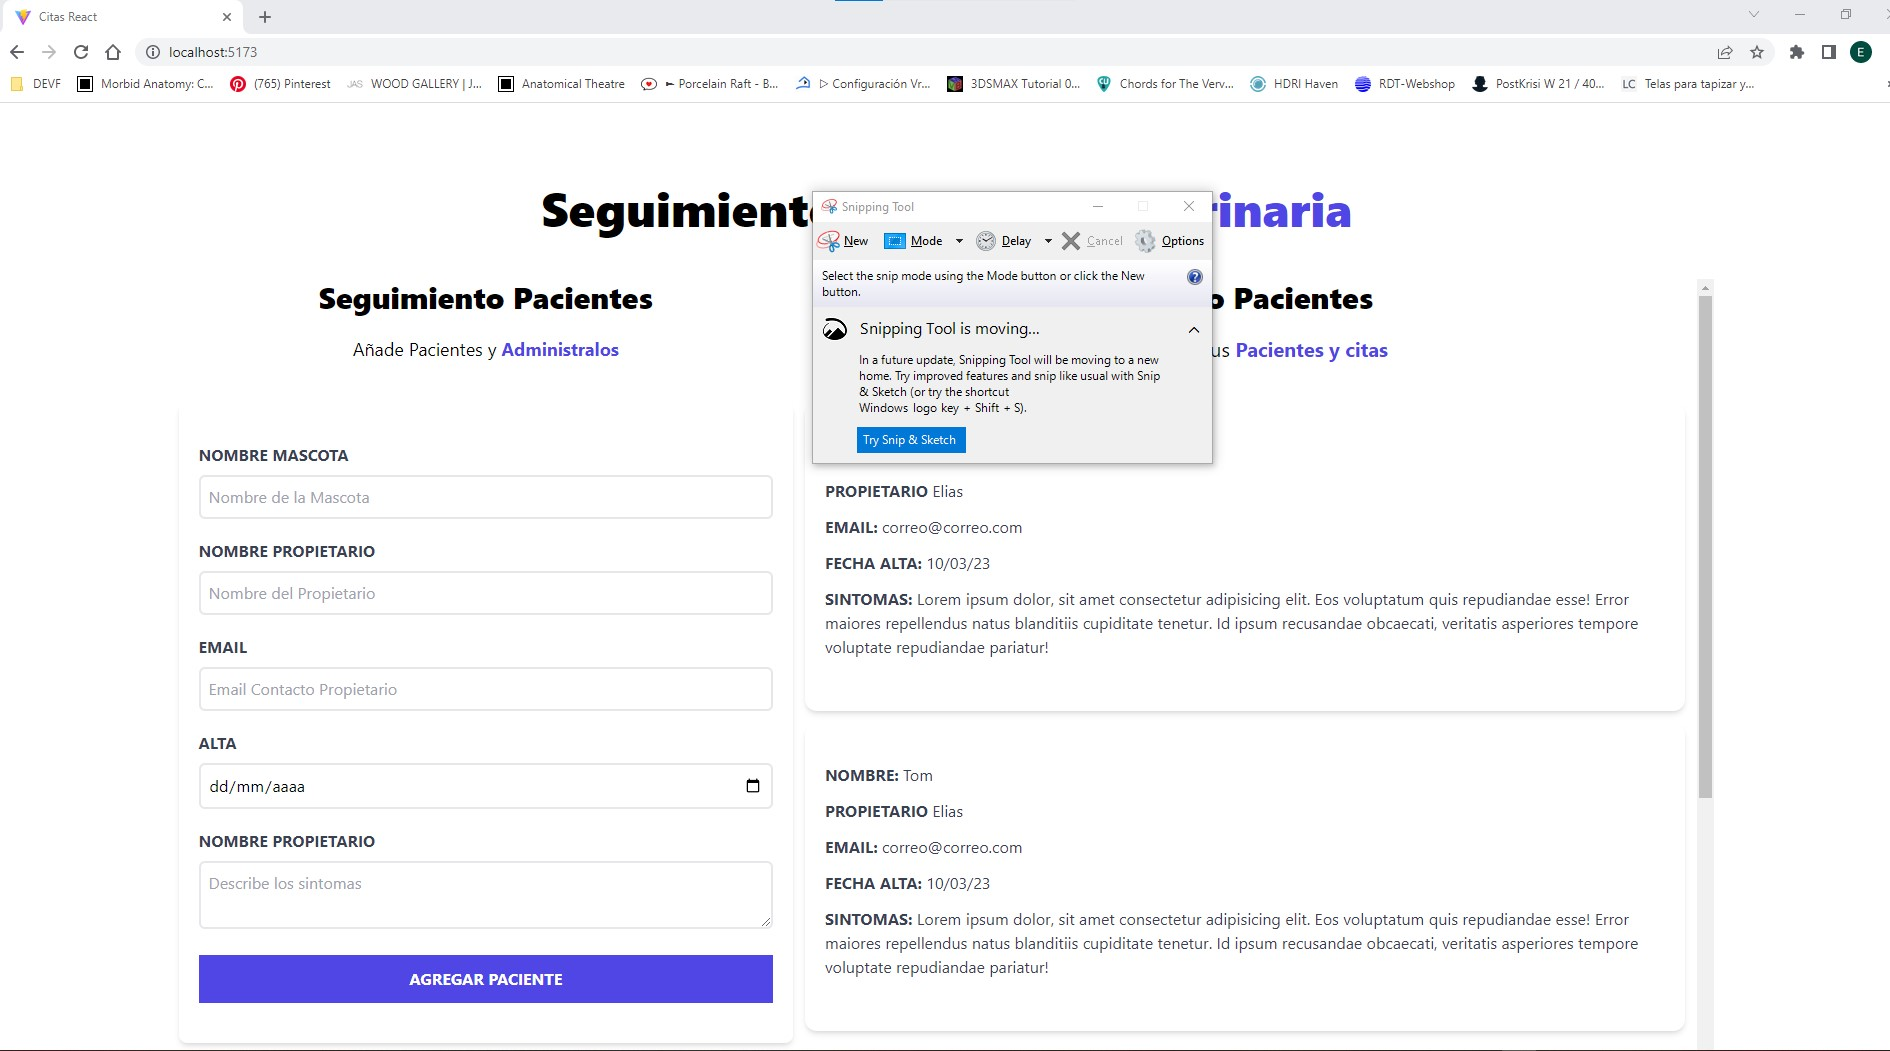
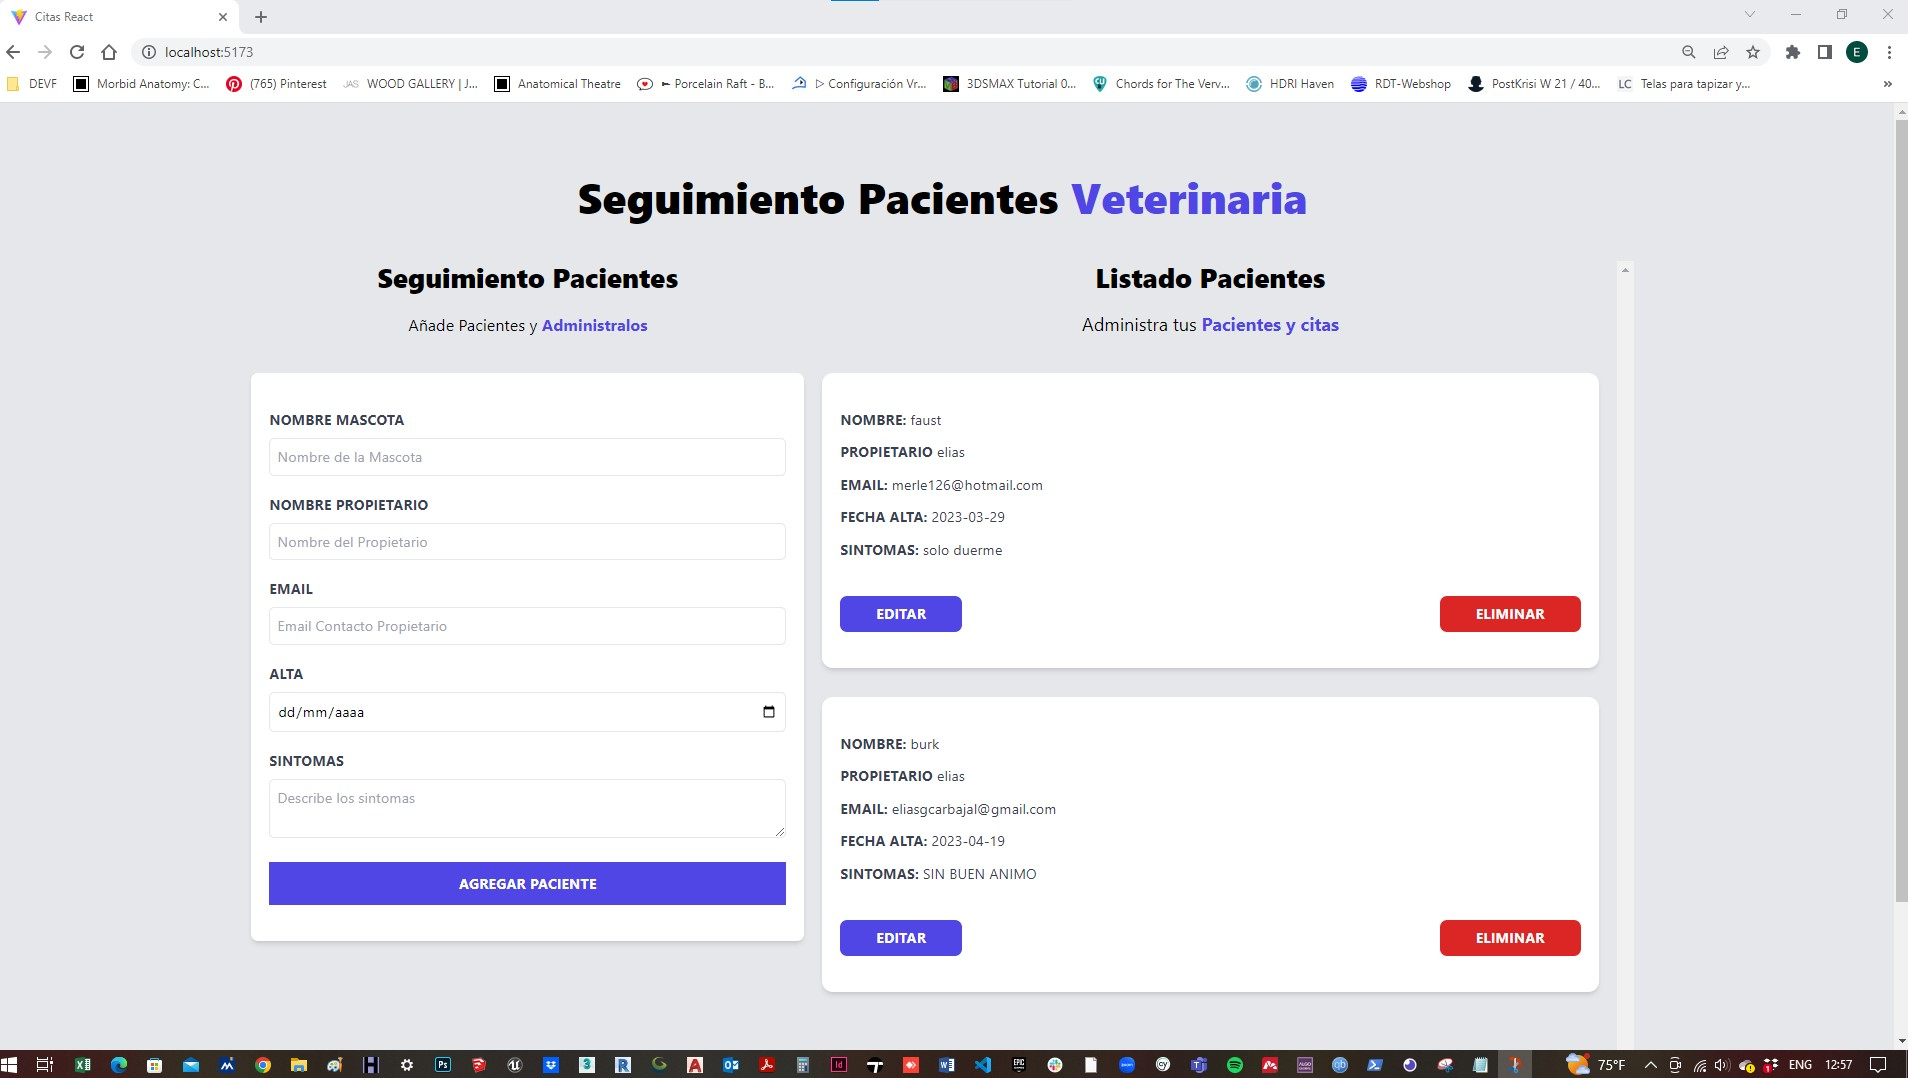
nuevos hooks con useEffect y local Storage, y deployment

diff --git a/src/App.jsx b/src/App.jsx
@@ -1,11 +1,24 @@
-import { useState } from "react";
+import { useState, useEffect } from "react";
 import Formulario from "./components/Formulario";
 import Header from "./components/Header";
 import ListadoPacientes from "./components/ListadoPacientes";
 
 function App() {
-  const [pacientes, setPacientes] = useState([])
-  const [paciente, setPaciente] = useState({})
+
+  const [pacientes, setPacientes] = useState([]);
+  const [paciente, setPaciente] = useState({});
+
+  useEffect(() => {
+    const obtenerLS = () => {
+      const pacientesLS = JSON.parse(localStorage.getItem('pacientes')) ?? [];
+      setPacientes(pacientesLS)
+    }
+    obtenerLS();
+   }, []);
+
+useEffect(() => {
+ localStorage.setItem('pacientes', JSON.stringify (pacientes));
+}, [pacientes])
 
   const eliminarPaciente = id => {
     const pacientesActualizados = pacientes.filter( paciente => paciente.id !== id);

diff --git a/tailwind.config.js b/tailwind.config.js
@@ -1,6 +1,6 @@
 /** @type {import('tailwindcss').Config} */
 export default {
-  content: ["./index.html" , "./src/**/*.jsx"],
+  content: ["index.html" , "./src/**/*.jsx"],
   theme: {
     extend: {},
   },
